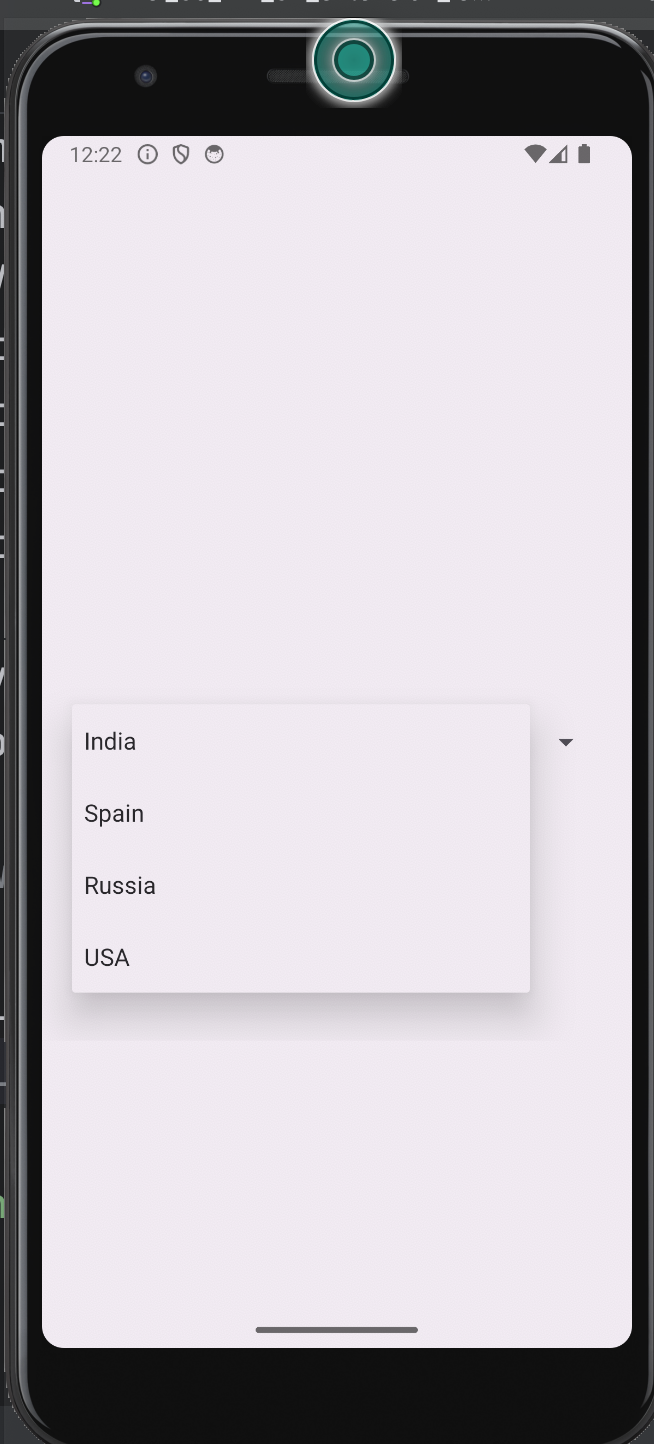
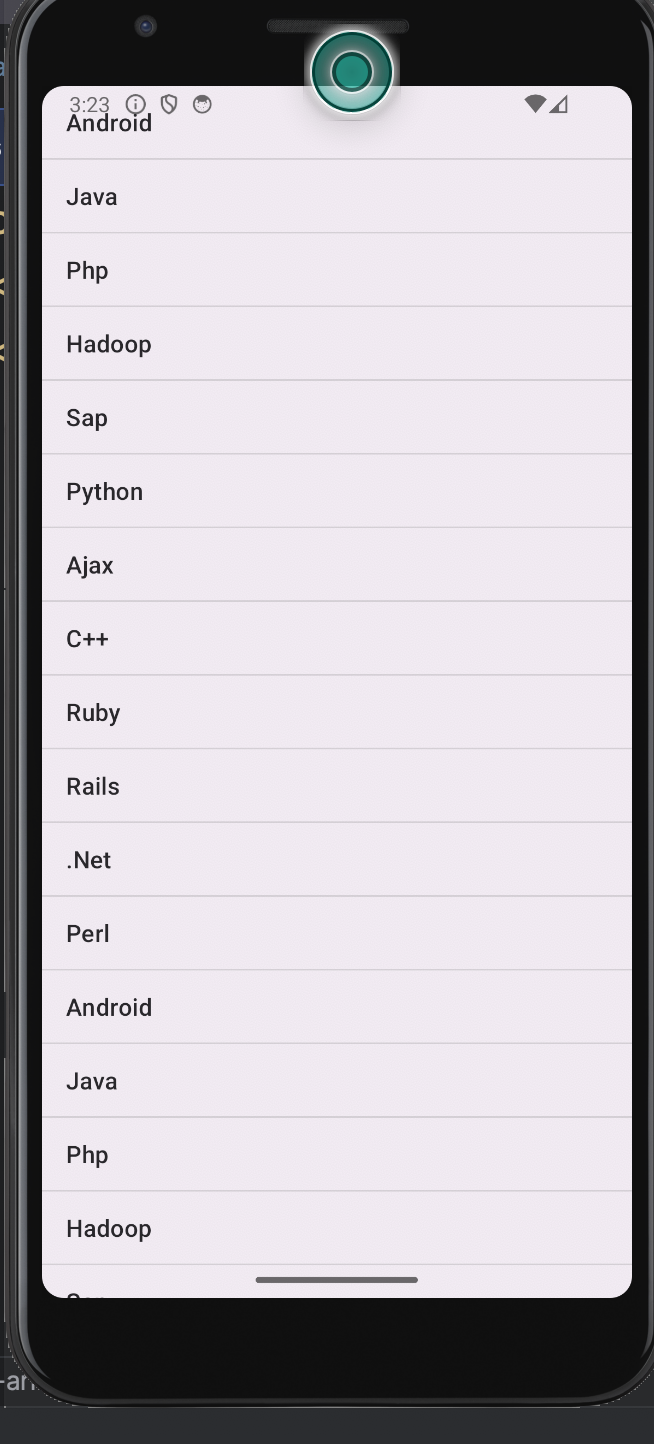
added ListView

diff --git a/app/src/main/java/com/example/myapplication/MainActivity.java b/app/src/main/java/com/example/myapplication/MainActivity.java
@@ -1,21 +1,24 @@
 package com.example.myapplication;
+import android.annotation.SuppressLint;
 import android.os.Bundle;
+import android.view.LayoutInflater;
 import android.view.View;
 import android.widget.AdapterView;
 import android.widget.ArrayAdapter;
-import android.widget.Spinner;
+import android.widget.ListView;
+import android.widget.TextView;
 import android.widget.Toast;
 
 import androidx.activity.EdgeToEdge;
 import androidx.appcompat.app.AppCompatActivity;
 
-// To use the Dropdown Menu we need to implements our class with  AdapterView.OnItemSelectedListener
-public class MainActivity extends AppCompatActivity  implements AdapterView.OnItemSelectedListener {
-// Here we are Creating the list of String
-String[] country={"India","Spain","Russia","USA"};
-String selectedCountry = "";
+import org.w3c.dom.Text;
 
 
+public class MainActivity extends AppCompatActivity {
+    ListView listView;
+
+    String[] listItem;
 
 
     @Override
@@ -23,28 +26,24 @@ String selectedCountry = "";
         super.onCreate(savedInstanceState);
         EdgeToEdge.enable(this);
         setContentView(R.layout.activity_main);
-        //Getting the instance of Spinner and applying OnItemSelectedListener on it
-        Spinner spin =  findViewById(R.id.spiner);
-        spin.setOnItemSelectedListener(this);
-       //Creating the ArrayAdapter instance having the country list
-        ArrayAdapter aa = new ArrayAdapter(this,android.R.layout.simple_spinner_item,country);
-        aa.setDropDownViewResource(android.R.layout.simple_spinner_dropdown_item);
+        listView=findViewById(R.id.listView);
+        listItem = getResources().getStringArray(R.array.array_technology);
+        final ArrayAdapter<String> adapter = new ArrayAdapter<String>(this,
+                android.R.layout.simple_list_item_1, android.R.id.text1, listItem);
+        listView.setAdapter(adapter);
+        listView.setOnItemClickListener(new AdapterView.OnItemClickListener() {
+            @Override
+            public void onItemClick(AdapterView<?> adapterView, View view, int position, long l) {
+                // TODO Auto-generated method stub
+                String value=adapter.getItem(position);
+                Toast.makeText(getApplicationContext(),value,Toast.LENGTH_SHORT).show();
 
-        //Setting the ArrayAdapter data on the Spinner
-        spin.setAdapter(aa);
+            }
+        });
+
 
 
     }
-    //Performing action onItemSelected and onNothing selected
 
-    public void onItemSelected(AdapterView<?> arg0, View arg1, int position, long id) {
-        selectedCountry=country[position];
-        Toast.makeText(getApplicationContext(),country[position] , Toast.LENGTH_LONG).show();
-        System.out.println(selectedCountry);
-    }
-    @Override
-    public void onNothingSelected(AdapterView<?> arg0) {
-        // TODO Auto-generated method stub
-    }
 
 }
